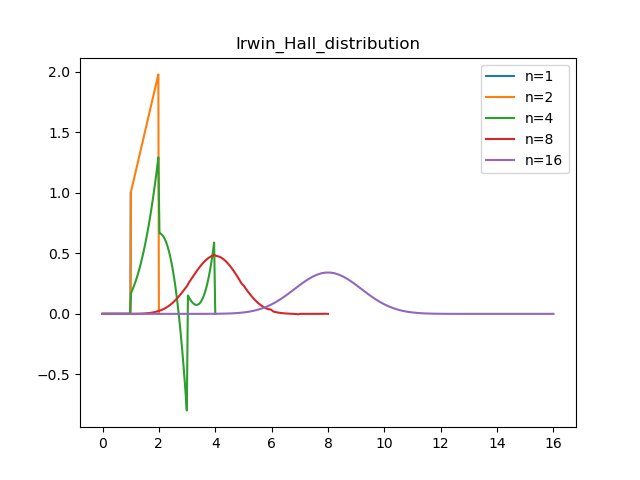
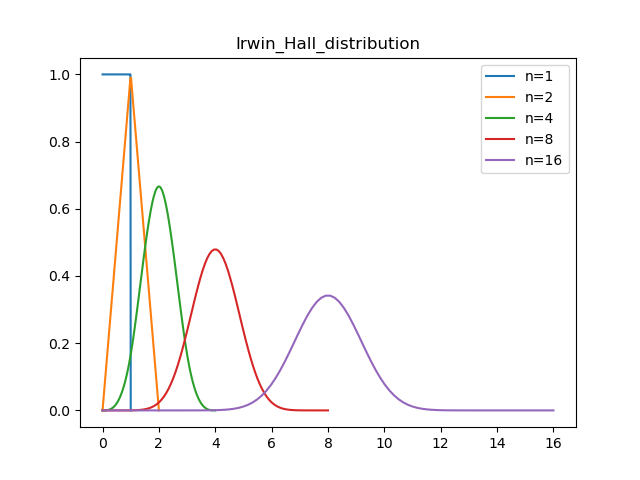
new

diff --git a/distributions.py b/distributions.py
@@ -204,11 +204,12 @@ def sgn(x,k):
 def Irwin_Hall_distribution(x,n=1): #https://en.wikipedia.org/wiki/Irwin%E2%80%93Hall_distribution
     def Irwin_Hall(x):
         def f(k):
-            return 1/(factorial(n-1))*np.power(-1,k)*combinat(n,k)*np.power(x-k,n-1)
-            #return 1/(factorial(2*(n-1)))*np.power(-1,k)*combinat(n,k)*np.power(x-k,n-1)*sgn(x,k)
+            return np.power(-1,k)*combinat(n,k)*np.power(x-k,n-1)
         #print('x_=',np.floor(x))
         NN = int(np.floor(x))
-        return np.sum(list(map(f, [i for i in range(NN)])))
+        res = np.array(list(map(f, [i for i in range(NN+1)])))
+        res = np.sum(res)*(1/factorial(n-1))
+        return res
     
     return list(map(Irwin_Hall, [i for i in x]))
     

diff --git a/probDistribution.py b/probDistribution.py
@@ -788,7 +788,7 @@ def plotAllDistributions():
 
 def main():
     #plotAllDistributions()
-    testBeta_distribution(32)
+    testIrwin_Hall_distribution(31)
     pass
 
 if __name__ == '__main__':
